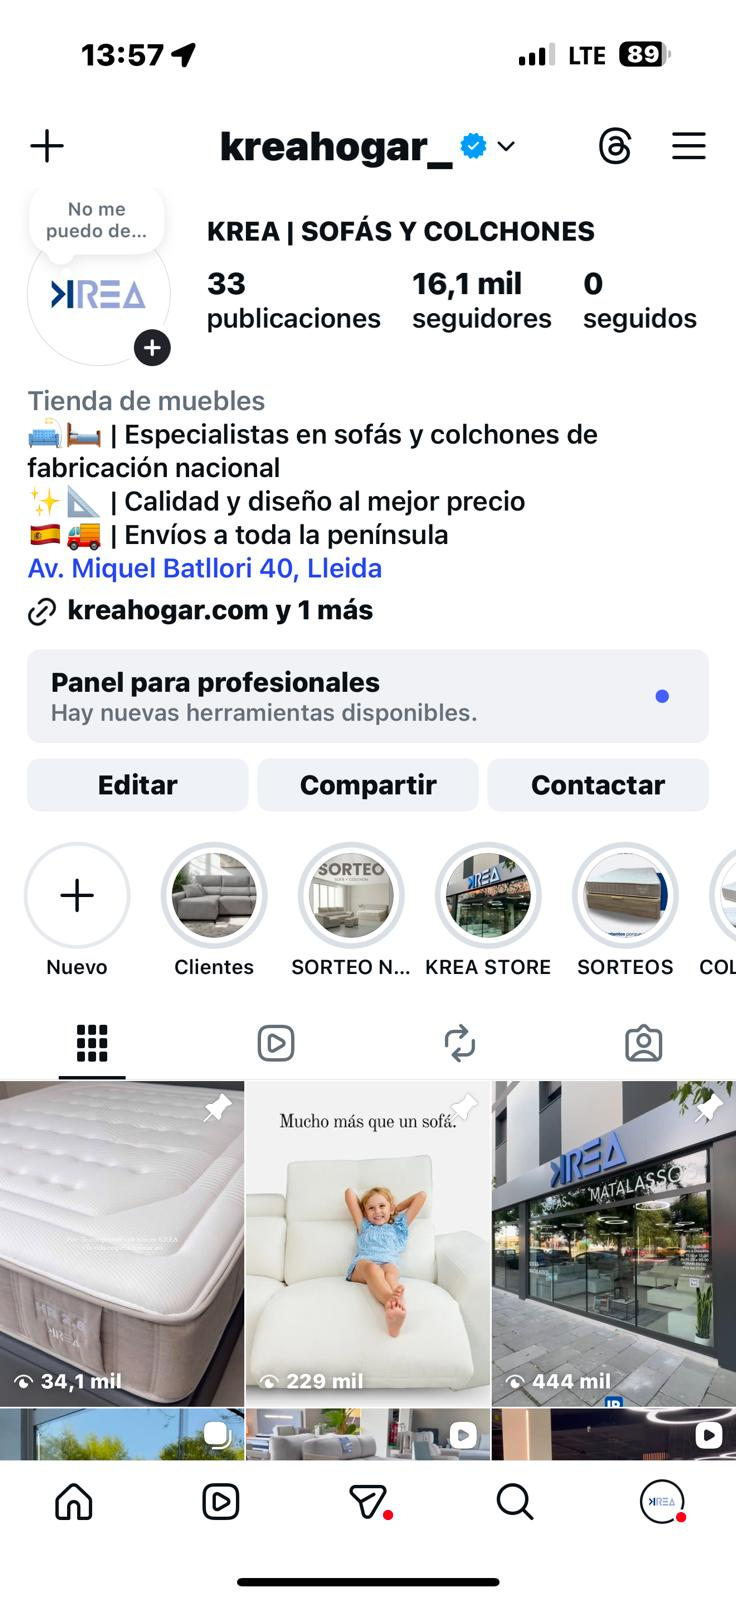
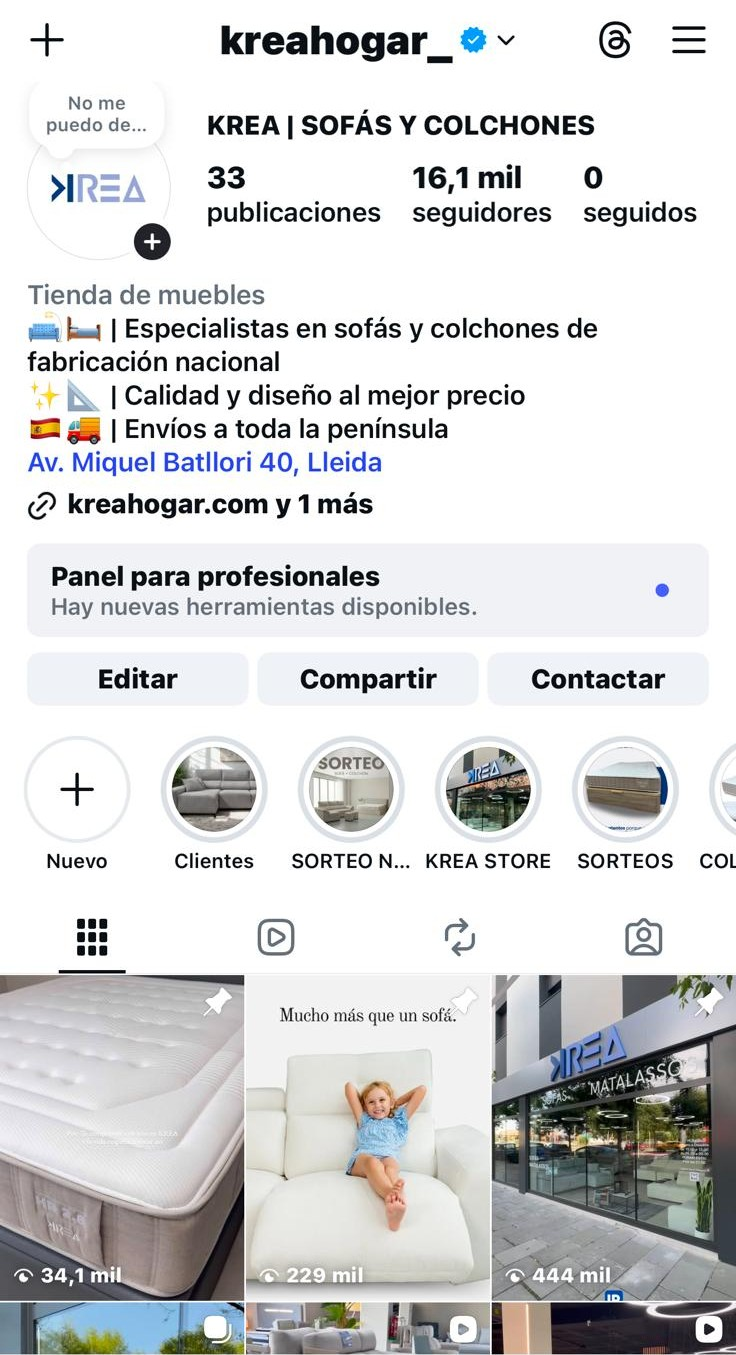
fix: mobile spacing + pill overflow + imágenes recortadas KREA
- 3 imágenes recortadas pusheadas (sin barra de estado del móvil)
- Padding secciones en móvil: 140px → 64px (era visualmente excesivo)
- case-metric-pill: white-space:normal en móvil (evita truncado)
- case-carousel: margin:0 en móvil (más espacio para el contenido)
- case-header/case-inner: padding lateral ajustado a 20px en móvil

diff --git a/index.html b/index.html
@@ -337,10 +337,21 @@ footer{padding:44px 5vw;border-top:1px solid var(--border);display:flex;align-it
   .res-stat{display:flex;align-items:center;gap:20px;padding:22px 24px}
   .res-stat-v{font-size:28px;flex-shrink:0}
   .res-stat-l{font-size:9px;margin-top:0}
+  /* Secciones: padding reducido en móvil */
+  #services,#process,#results,#how,#faqs{padding:64px 0}
+  #cta{padding:80px 5vw}
+  /* Pills: permiten wrap en pantallas pequeñas */
+  .case-metric-pill{white-space:normal;line-height:1.5}
+  /* Texto de casos: padding lateral cómodo */
+  .case-header{padding:20px 20px}
+  .case-inner{padding:0 20px 28px}
 }
 
 /* ═══ CAROUSEL ═══ */
 .case-carousel{position:relative;margin:0 44px 36px;overflow:hidden;border:1px solid var(--border)}
+@media(max-width:600px){
+  .case-carousel{margin:0 0 24px}
+}
 .carousel-track{display:flex;transition:transform .42s cubic-bezier(.25,.46,.45,.94);will-change:transform}
 .carousel-slide{min-width:100%}
 .carousel-img-wrap{position:relative;aspect-ratio:3/4;overflow:hidden;background:rgba(10,10,15,.8)}
